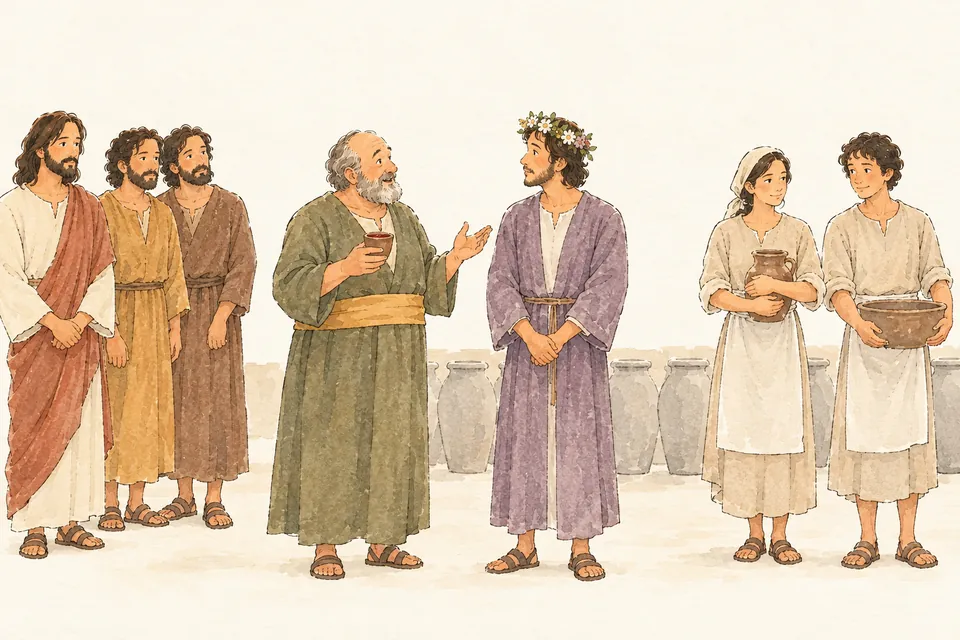
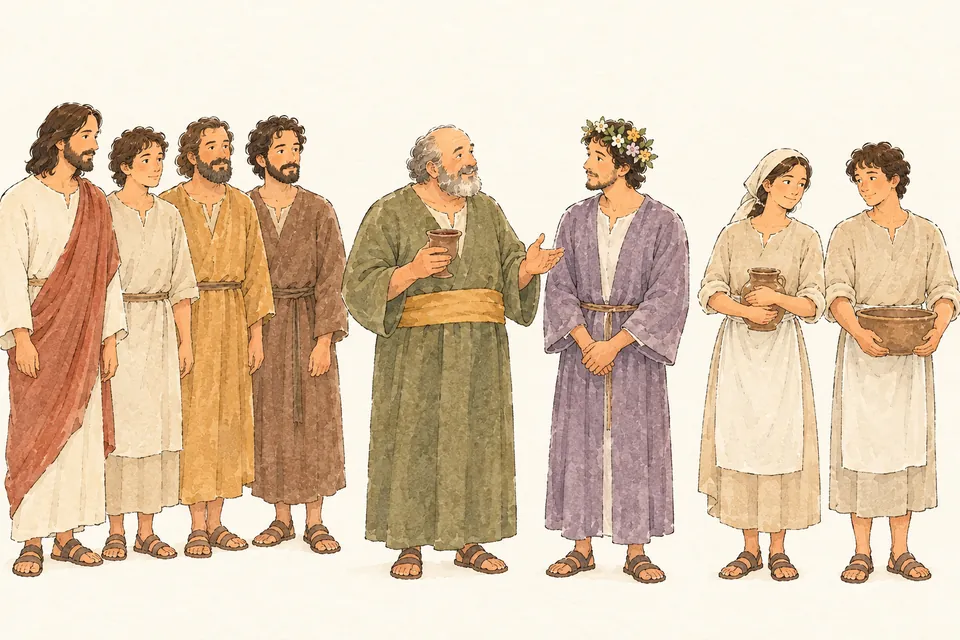
Johannes 2 im Aquarellstil: Runde 3 übernommen, Blindtest eingetragen (v0.136)
Claude-Session: https://claude.ai/code/session_01TBQM7kknaM7y3rfnKagLMB

diff --git a/CHANGELOG.md b/CHANGELOG.md
@@ -9,7 +9,7 @@ Entscheid von Andi Neck (2026-10-27): Styleguide «Visuelle Bibel» V1.2 (minima
 - **Herstellung:** Szenenplan und Figurenblatt (`scripts/authoring/bilder_aquarell_daten/`), Malwerkzeug `bilder_aquarell_gen.py` mit Action «bilder-aquarell» (OpenAI-Bildmodell, Vorlagen: Stilreferenz und Figurenblatt), Ablage `bilder_aquarell.py`: je Bildfeld ein gemaltes Bild (3 : 2), Sprechblasen als Text je Sprache (Hochdeutsch, Züridüütsch) darüber, Stichwortband aus dem Bildauftrag darunter; das Werkzeug prüft jede Blase wörtlich gegen den Lesetext (Kürzungen mit …).
 - **Johannes 2:** sieben gemalte Felder (Kana 3, Tempel 2, Jerusalem 2) auf Abschnittsebene, dieselben drei Hauptszenen auf Kapitelebene; auf der Versebene neben ihren Versen. Sechs zählbare Steinkrüge, Maria sichtbar älter als Jesus, der Speisemeister spricht zum Bräutigam, keine Verwandlungsszene, Geissel erhoben ohne Schlag.
 - **App:** Aquarellbilder ersetzen Anime und Symbol, wo vorhanden (kein Stilumschalter); gemalte Felder auf breiten Bildschirmen untereinander (höchstens 480 px); Legende mit «Was ist belegt?» (B/R/I je Feld mit Stelle), Herkunft als KI-Bild.
-- **Prüfung:** zwei Blindrunden durch getrennte KI-Instanzen (nur Bilder, ohne Auftrag); nach Runde 1 fünf Felder neu gemalt (Krüge im Hintergrund, Alter Marias, erwachsene Diener, Fragende ohne Frauen/Kinder und ohne heutige Gebetsschals, Tauben im Käfig, Abstand Jesu zur Menge). Keine fachliche und keine muttersprachliche Prüfung.
+- **Prüfung:** drei Blindrunden durch getrennte KI-Instanzen (nur Bilder, ohne Auftrag); nach Runde 1 fünf, nach Runde 2 vier Felder neu gemalt (Krüge im Hintergrund, Alter Marias, erwachsene Diener, unterscheidbare Jünger, Fragende ohne Frauen/Kinder und ohne heutige Gebetsschals, Tauben im Käfig, Abstand Jesu zur Menge). Offene Punkte stehen im Feld `check` der Bild-Datensätze (u. a. Maria in der Totale von Feld 2 kaum älter wirkend, Jesu Gesicht bei der Tempelreinigung eher ruhig). Keine fachliche und keine muttersprachliche Prüfung.
 
 ## v0.135 — 2026-10-27 — Umschalter Text | Bild auf allen Ebenen; Bilder auf Vershöhe
 
